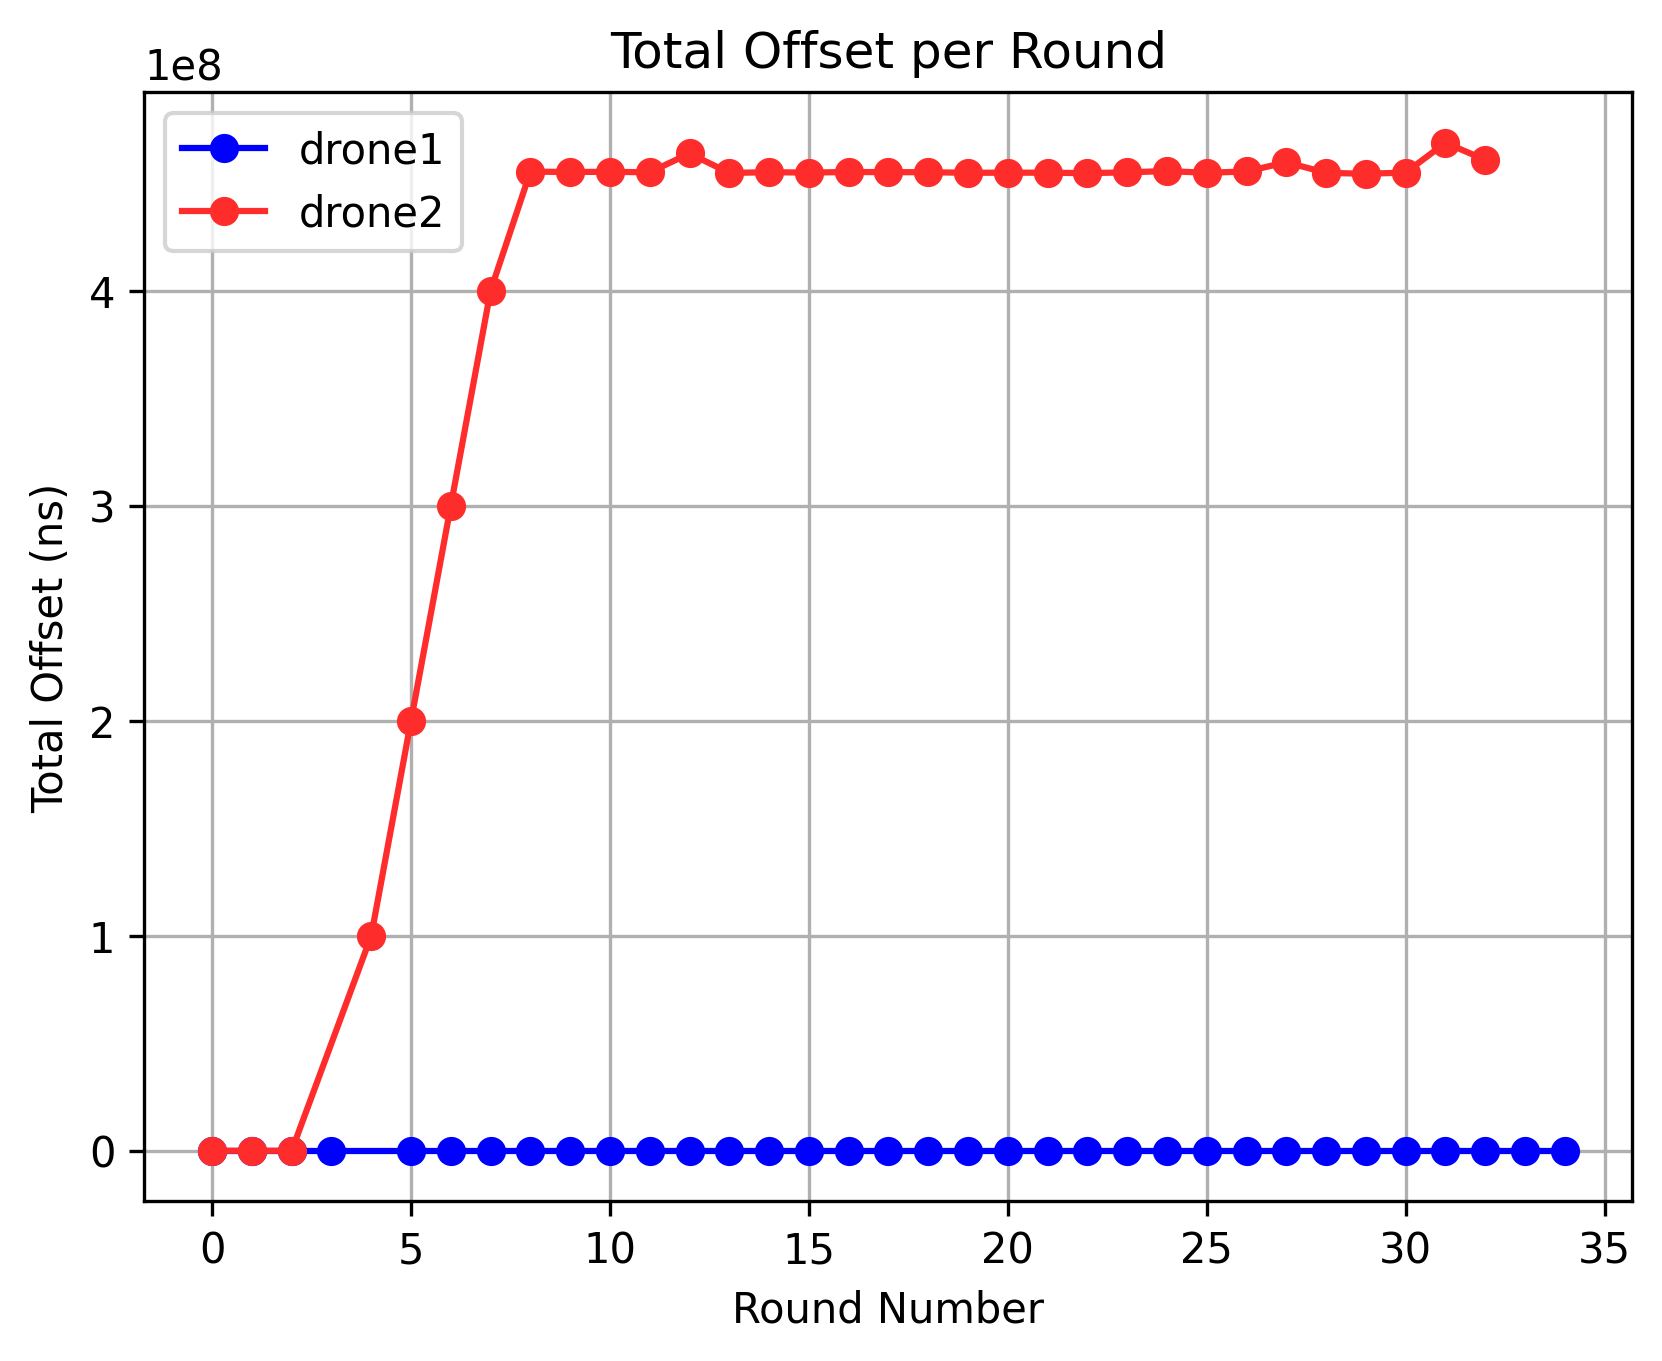
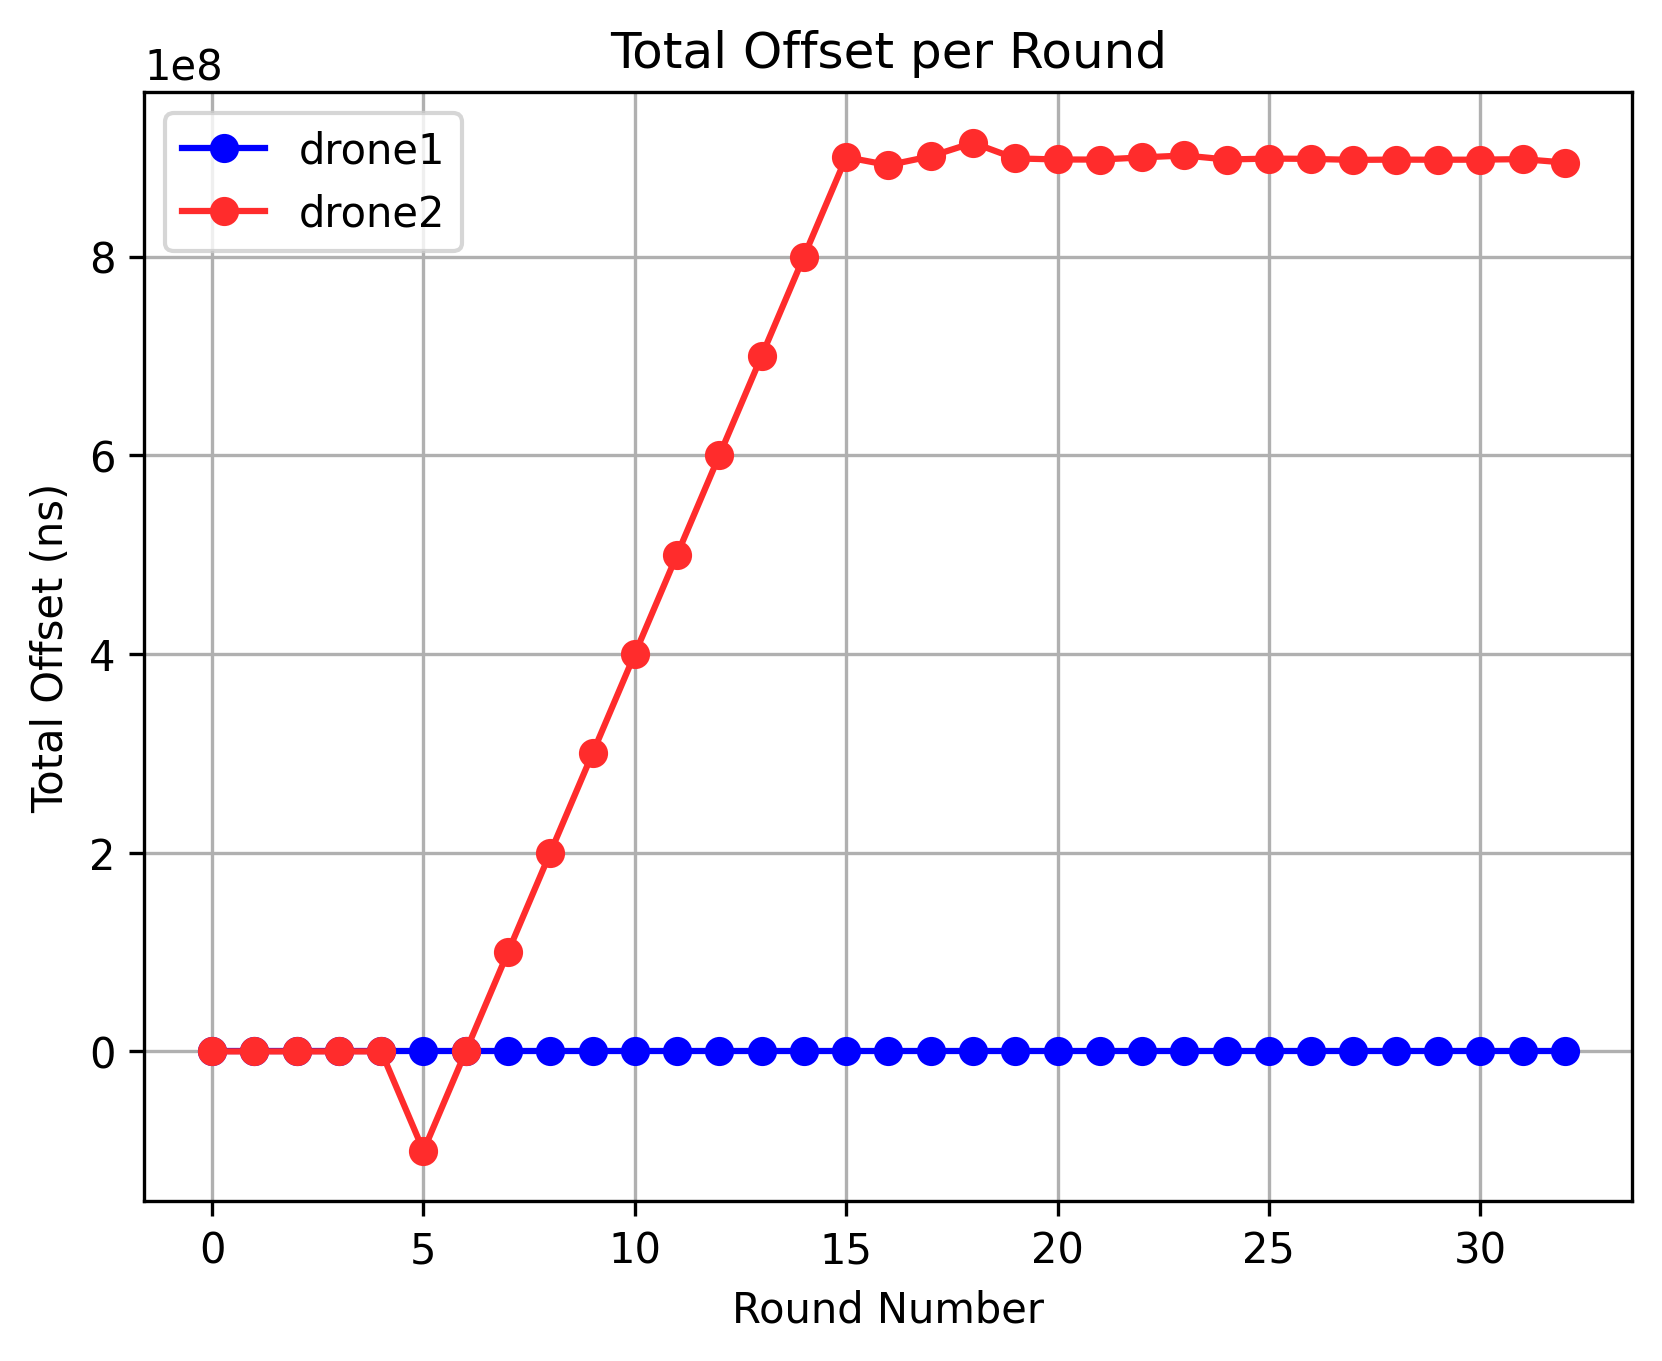
New metrics

diff --git a/docs/logs/generateReport.py b/docs/logs/generateReport.py
@@ -98,6 +98,15 @@ def read_data(node_name):
                 data = stripped_line.split('[PARENT]:')[1]
                 current_round_data['SLOT_START'] = int(data)
 
+            if '[SLOT_ID]' in stripped_line:
+                
+                if(round_counter in round_data.keys()):
+
+                    current_round_data = round_data[round_counter]
+
+                    data = stripped_line.split('[SLOT_ID]:')[1]
+                    current_round_data['SLOT_ID'] = int(data)
+
             
 
 
@@ -177,23 +186,21 @@ def count_overlapped_packets(packet_arrival_times, slot_start, slot_end):
 
     overlapped_packets = 0
 
-     #Check if packet received was within slot. Mimic mechanism in tdma.c/tdma_dequeue
+    #print(packet_arrival_times, slot_start, slot_end)
+
+    #Check if packet received was within slot. Mimic mechanism in tdma.c/tdma_dequeue
     if slot_start < slot_end:
 
         for arrival_time in packet_arrival_times:
-
-            relative_arrival_time = arrival_time % FRAME_LEN_NS
             
-            if relative_arrival_time > slot_start and relative_arrival_time <= slot_end:
+            if arrival_time > slot_start and arrival_time <= slot_end:
                 overlapped_packets+=1
 
     else:
         
         for arrival_time in packet_arrival_times:
-
-            relative_arrival_time = arrival_time % FRAME_LEN_NS
             
-            if relative_arrival_time > slot_start or relative_arrival_time <= slot_end:
+            if arrival_time > slot_start or arrival_time <= slot_end:
                 overlapped_packets+=1
 
     return overlapped_packets
@@ -219,7 +226,19 @@ def build_overlap_chart(data):
             print(i, overlapped_packets)
 
 
+def filter_packets_by_slot(packet_data_array, slot_id_array, slot_id, key):
+    
+    return_list = list()
 
+    for i in range(0, len(packet_data_array)):
+        
+        # Check if packet received is from desired slot
+        if slot_id_array[i] == slot_id:
+            return_list.append(packet_data_array[i])
+        #else:
+            #print(slot_id_array[i], slot_id ,key)
+
+    return return_list
 
 
 def build_charts():
@@ -261,8 +280,15 @@ def build_charts():
 
             if 'DELAY' in current_round_data.keys():
 
-                delay_data = current_round_data['DELAY']
-                node_data['packet_arrival_time'].append(delay_data['packet_arrival_time'])
+                previous_round_data = round_data[0 if key-1 < 0 else key-1]
+
+                if('DELAY' in previous_round_data.keys()):
+                    delay_data = previous_round_data['DELAY']
+                    results = filter_packets_by_slot(delay_data['packet_arrival_time'], delay_data['received_slot_id'], current_round_data['SLOT_ID'] - 1 , key)
+                else:
+                    results = []
+                
+                node_data['packet_arrival_time'].append(results)
 
             else:
                 node_data['packet_arrival_time'].append([])

diff --git a/tdma.c b/tdma.c
@@ -447,8 +447,8 @@ static struct sk_buff *tdma_dequeue(struct Qdisc *sch)
 				slot_start = mod(q->slot_offset + total_offset, q->frame_len);
 				slot_end = mod(slot_start + q->slot_len - slot_guard, q->frame_len);
 
-				printk(KERN_DEBUG "[SLOT_START]: %lld\n", slot_start);
-				printk(KERN_DEBUG "[SLOT_END]: %lld\n", slot_end);
+				//printk(KERN_DEBUG "[SLOT_START]: %lld\n", slot_start);
+				//printk(KERN_DEBUG "[SLOT_END]: %lld\n", slot_end);
 
 				//Check if there are packets in the queue
 				if (q->qdisc->ops->peek(q->qdisc)) {
@@ -475,6 +475,8 @@ static struct sk_buff *tdma_dequeue(struct Qdisc *sch)
 			slot_number++;
 
             if(__topology_is_active && __topology_is_active() && !send_broadcast_flag){
+
+				printk(KERN_DEBUG "[SLOT_START]: %lld\n", slot_number);
 
 				//Send broadcast with topology at the start of the slot and no more.
 				send_broadcast_flag = 1;
@@ -527,6 +529,8 @@ static struct sk_buff *tdma_dequeue(struct Qdisc *sch)
 
 		//Slot end procedure. Occurs once when the slot ends.
 		if(!slot_end_flag){
+
+			printk(KERN_DEBUG "[SLOT_END]: %lld\n", slot_number);
 
 			//Slot has ended. Prepare to broadcast again when slot starts.
 			send_broadcast_flag = 0;

diff --git a/topology.c b/topology.c
@@ -333,8 +333,10 @@ void topology_set_delays_flag(int value) {
 
     if(value > 0) {
         delays_flag = 1;
+        printk('[DELAY_ON]\n');
     } else {
         delays_flag = 0;
+        printk('DELAY_OFF\n');
     }
 
 }
